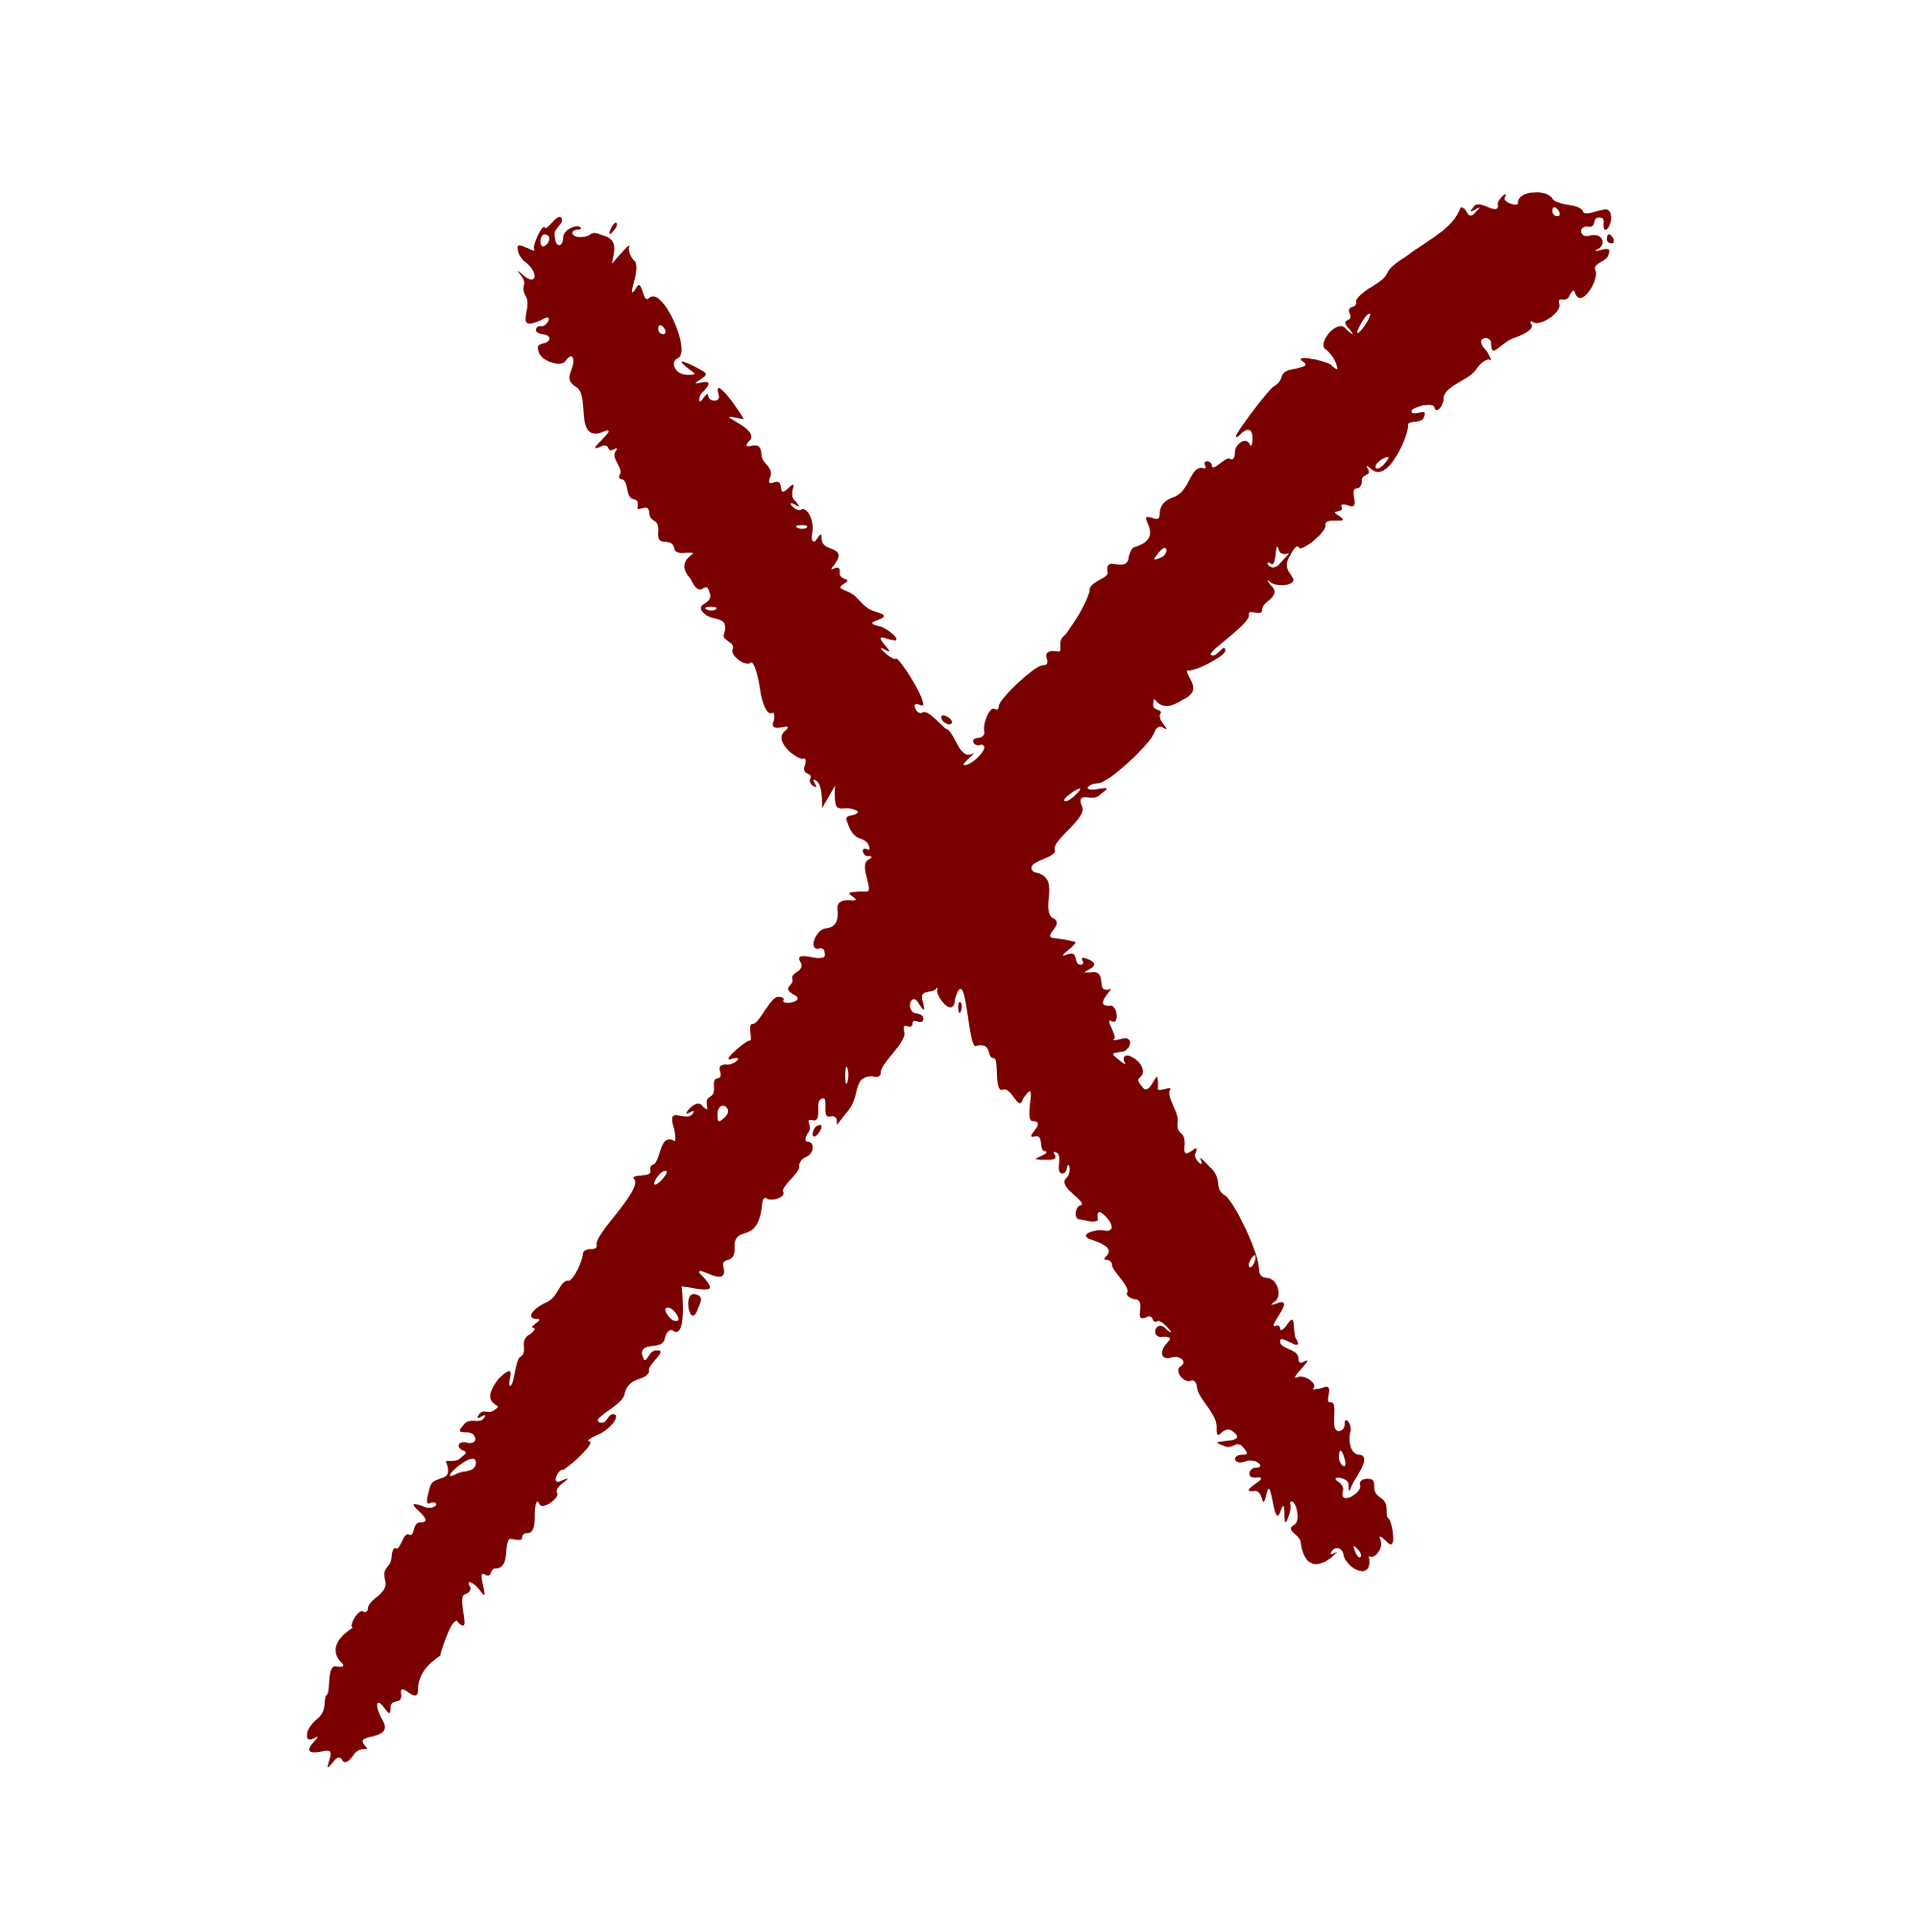
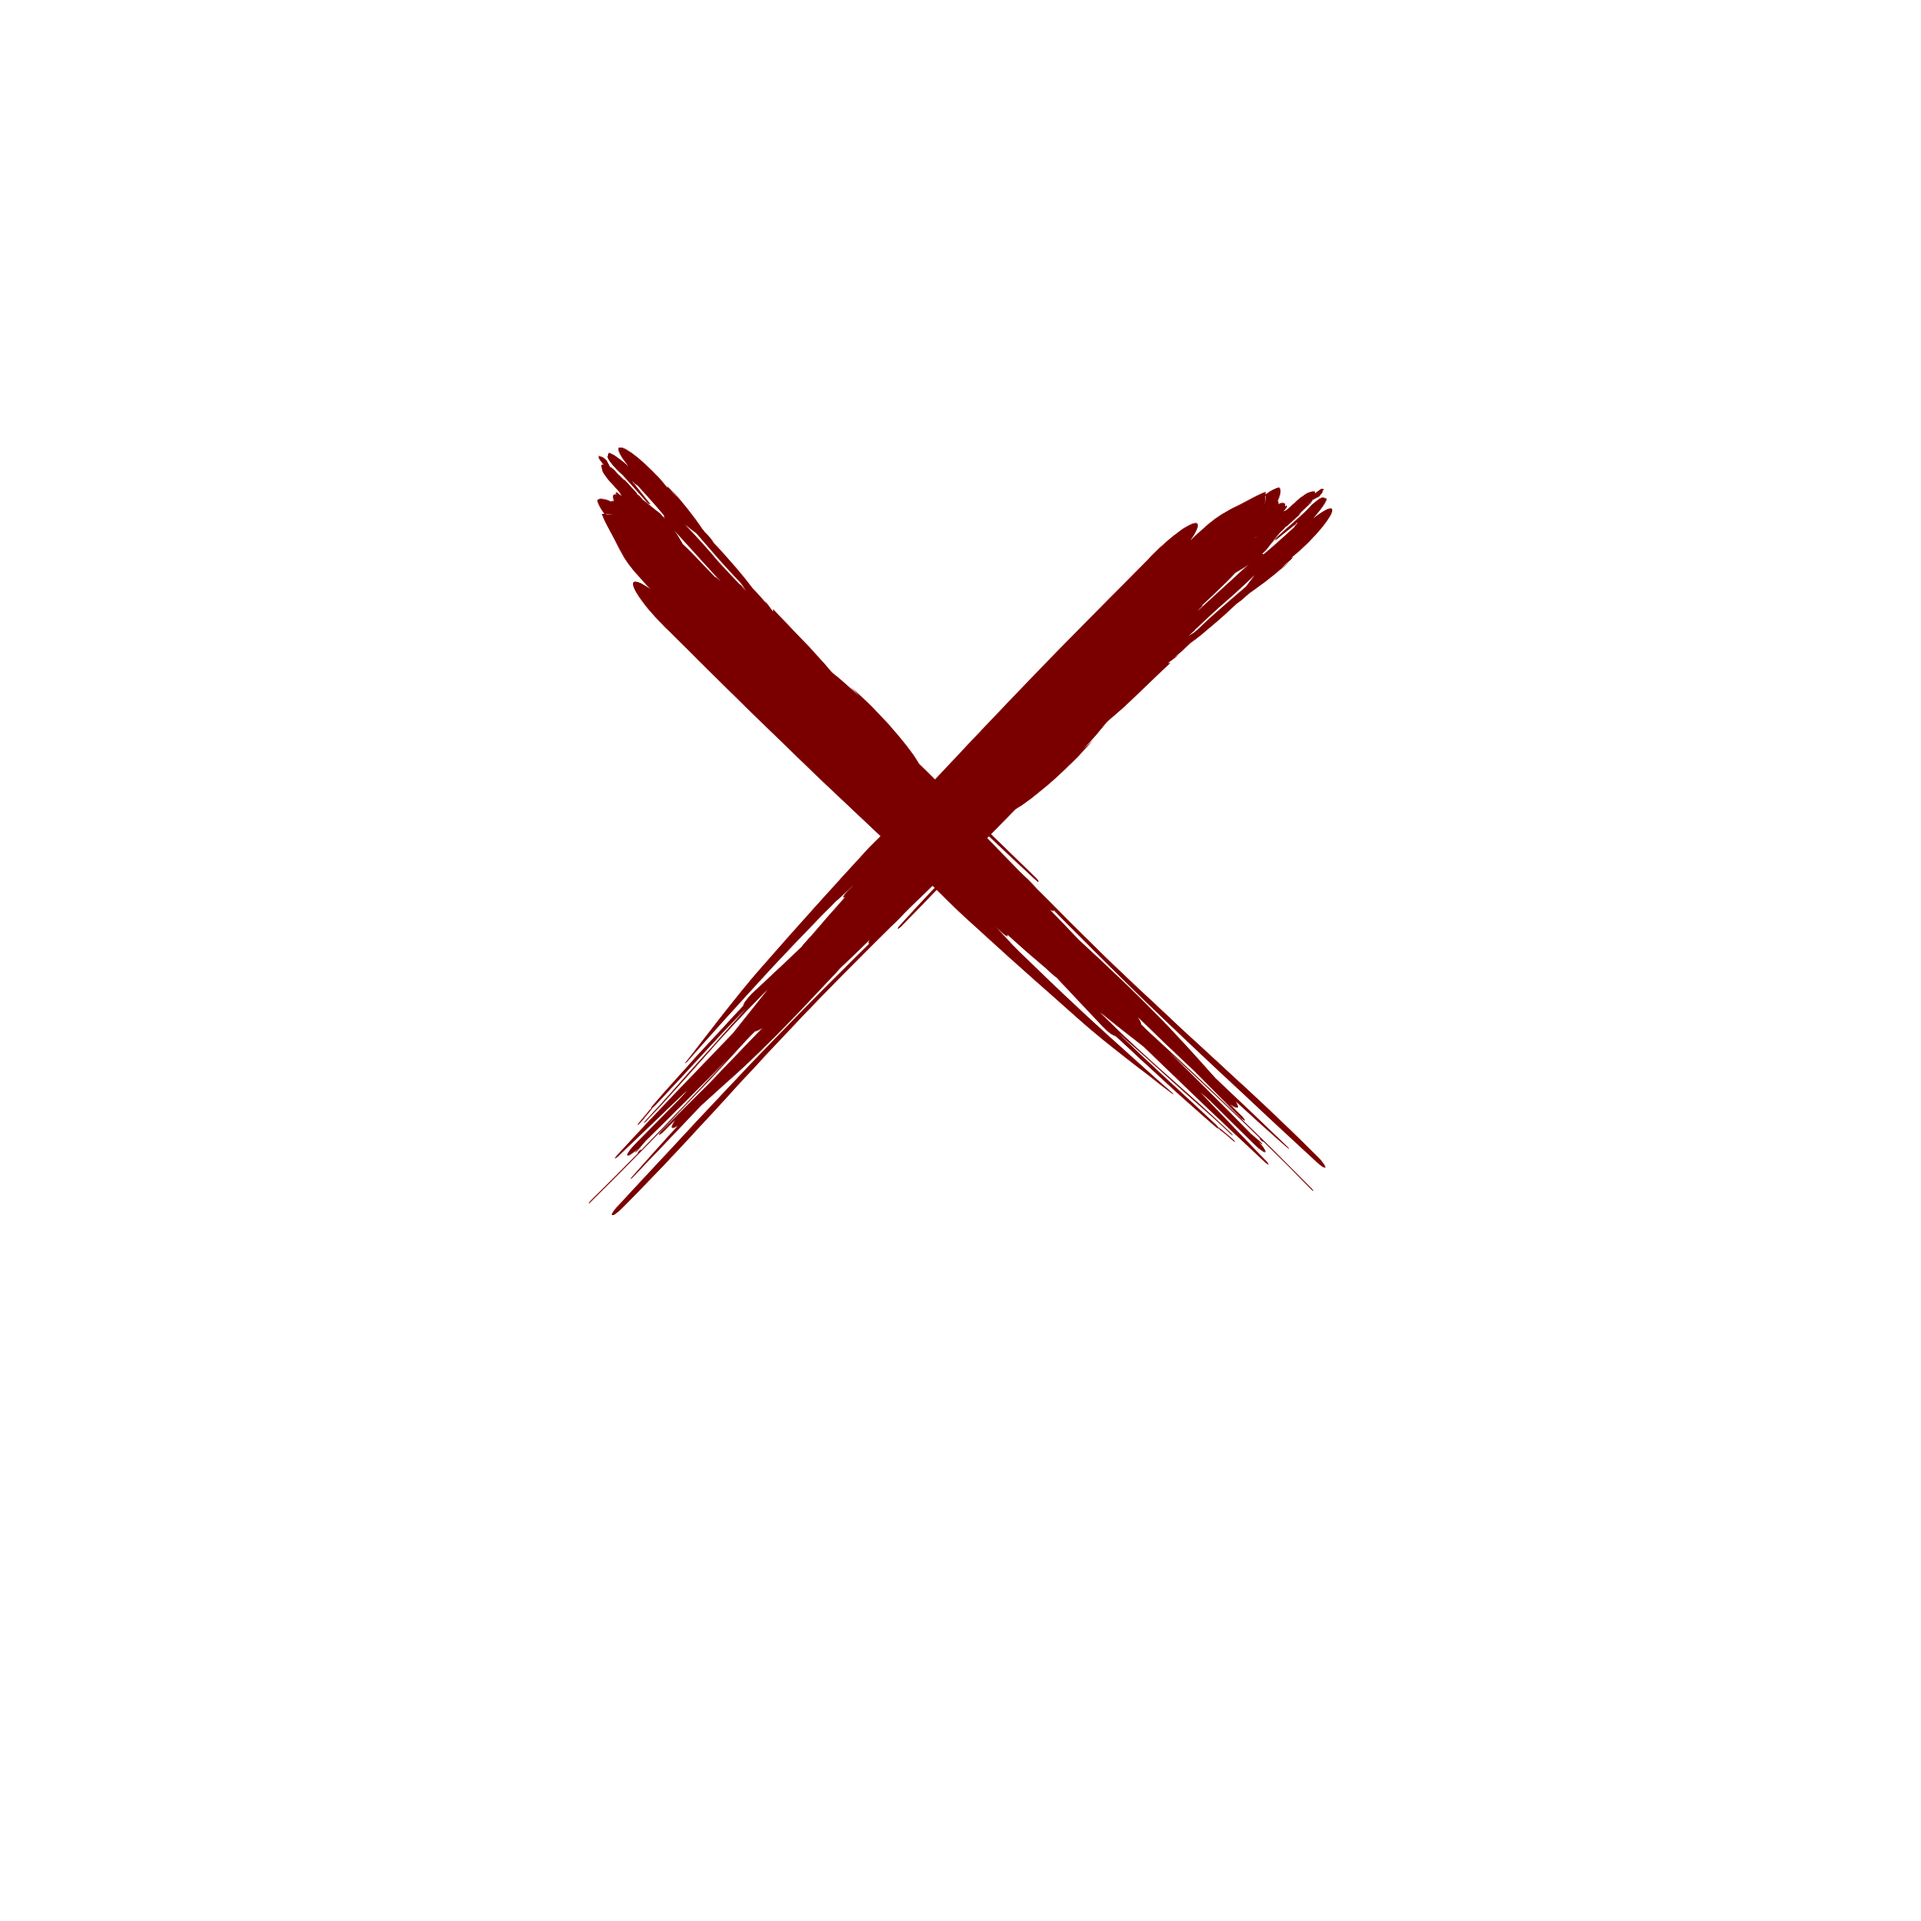
made the boxes pop up ish kinda when u press the button (lowk just go down but oh well) and rhw shadow increases

diff --git a/script.js b/script.js
@@ -9,12 +9,26 @@ window.addEventListener("scroll",function(){
     wave.style.transform="translateY("+pos+"%)";
 });
 //TOTAL cinema( ik its absolute but wtv wtv)
+let less=document.getElementById("less1")
 let but=document.getElementById("add");
 let scr=document.getElementById("scr");
 let lis=document.getElementById("list");
 let nco=document.getElementById("ncomp");
 let sel=document.querySelectorAll(".select");
 let tot=document.getElementById("total");
+sel.forEach(function(s){
+    s.addEventListener("change",function(){
+        let item=s.closest(".item");
+        if(s.checked){
+            item.style.transform="translateY(10px)";
+            item.style.boxShadow="18px 18px 0 #2d1902, inset 0 0 0 3px #a66b38";
+        }
+        else{
+            item.style.transform="translateY(0)";
+            item.style.boxShadow="6px 6px 0 #2d1902, inset 0 0 0 3px #a66b38";
+        }
+    });
+});
 but.addEventListener("click",function(){
     let num=0;
     let count = 0;

diff --git a/style.css b/style.css
@@ -32,8 +32,9 @@
   font-weight: 700;
   font-style: normal;
 }
-*{
-    cursor: url("cursor.png"), auto !important;
+html,
+body,*{
+    cursor: url("cursor.png") 0 0, auto;
 }
 body{
     background-color: #2d1902;
@@ -117,7 +118,7 @@ body{
     scroll-snap-align: center;
     box-sizing: border-box;
     padding: 25px;
-
+    transition: transform 0.2s;
 }
 .model{
     aspect-ratio: 1/1;
